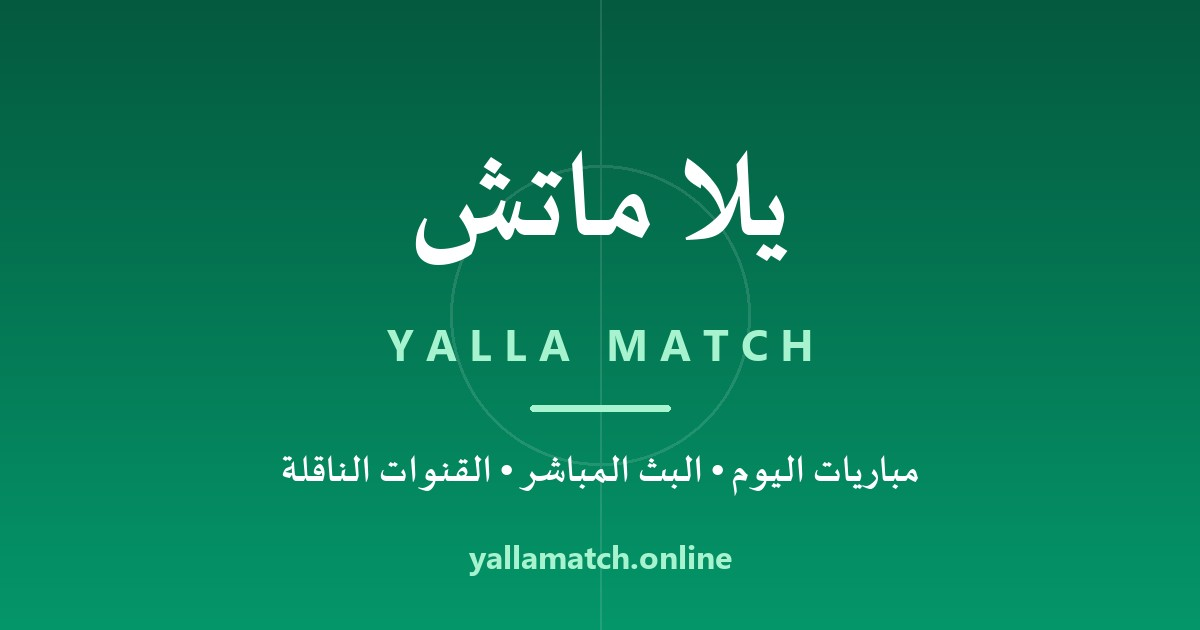
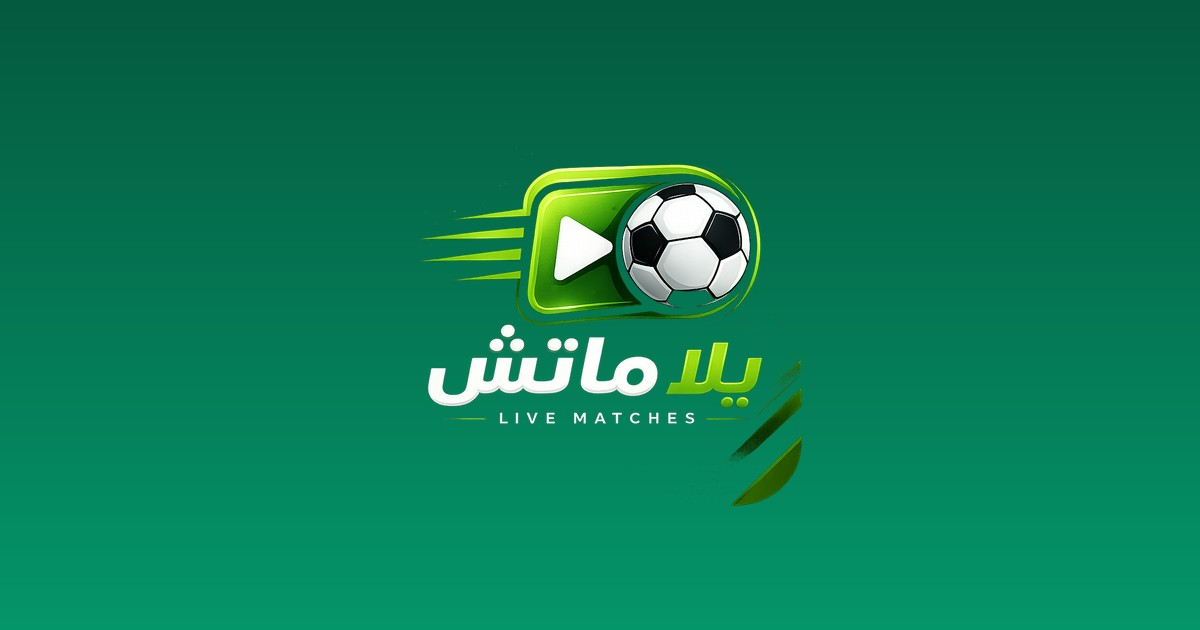
Use the real brand assets; drop the fullscreen redirect
## Fullscreen: removed the clever part

The embeds already permit native fullscreen (allowFullScreen + allow="fullscreen"),
and that delegation was verified working on the live site — iframe.featurePolicy
reports fullscreen allowed for the stream origin, with and without the sandbox.
Permission was never the blocker.

The blocker was the redirect added alongside it. It watched for the iframe making
itself the fullscreen element and immediately swapped fullscreen onto the wrapper
so the overlays would come along. Swapping the fullscreen element out from under
the embed makes the embedded player observe "fullscreen ended" through its own
fullscreenchange listener, and players routinely react by resetting or exiting —
so the viewer was bounced straight back out, which is exactly the reported
symptom of nothing happening.

It is gone. Native fullscreen now runs untouched. Viewers get two routes:

  * the player's own button  -> the iframe goes fullscreen. Overlays sit outside
    it and are not visible for the duration — the ordinary tradeoff every site
    embedding a third-party player makes.
  * PlayerControls' button   -> the WRAPPER goes fullscreen, overlays included.

A plain native fullscreen that works beats a branded one that does not. This was
speculative and unverifiable in this environment, and should not have shipped
ahead of a real device test.

## Brand assets

scripts/gen-brand-assets.py builds the whole set from the two supplied originals,
[…]

Changed region(s): [[0.2158, 0.2413, 0.7708, 0.8143], [0.37, 0.8746, 0.6167, 0.9048]]

diff --git a/utils/useWrapperFullscreen.ts b/utils/useWrapperFullscreen.ts
@@ -7,55 +7,32 @@ import { useCallback, useEffect, useRef, useState } from 'react';
 // as long as fullscreen lasts. Pointing fullscreen at the wrapper that holds the video
 // AND the overlays keeps them on screen together.
 //
-// The embed's OWN fullscreen button used to be disabled outright to force everyone
-// through this route. That made the button inside third-party players do nothing at all,
-// which reads as a broken site. Instead the embeds now permit fullscreen, and this hook
-// redirects it: when a descendant (the embed's iframe) makes itself the fullscreen
-// element, fullscreen is re-pointed at the wrapper so the overlays come along.
+// The embeds ALSO permit native fullscreen (allowFullScreen + allow="fullscreen"), so a
+// viewer has two routes:
 //
-// The redirect is best-effort and deliberately cannot make things worse: it swaps the
-// fullscreen element in place rather than exiting and re-entering. If the browser
-// refuses the swap, the embed simply stays fullscreen on its own — the viewer still gets
-// fullscreen, just without the overlays. That is strictly better than a button that does
-// nothing, which is what blocking fullscreen produced.
+//   * the player's own fullscreen button  -> the iframe goes fullscreen natively. Our
+//     overlays sit outside the iframe, so they are not visible for its duration. That is
+//     the ordinary tradeoff every site embedding a third-party player makes.
+//   * this hook's button (PlayerControls) -> the WRAPPER goes fullscreen, keeping the
+//     video and the overlays together.
+//
+// An earlier version tried to have both: it watched for the iframe making itself the
+// fullscreen element and swapped fullscreen onto the wrapper. That was removed. Swapping
+// the fullscreen element out from under the embed makes the embedded player observe
+// "fullscreen ended" through its own fullscreenchange listener, and players routinely
+// react by resetting or exiting — so the viewer was bounced straight back out and
+// fullscreen appeared to do nothing at all. A plain native fullscreen that works beats a
+// branded one that does not.
+
 export function useWrapperFullscreen<T extends HTMLElement = HTMLDivElement>() {
     const ref = useRef<T>(null);
     const [isFullscreen, setIsFullscreen] = useState(false);
-
-    // True while an exit->re-request round trip is in flight, so the intermediate
-    // fullscreenchange events it fires are not mistaken for the user leaving fullscreen.
-    const redirecting = useRef(false);
 
     useEffect(() => {
         // Safari fires the webkit-prefixed event only, so listen for both.
         const onChange = () => {
             const fsEl = document.fullscreenElement || (document as any).webkitFullscreenElement;
-            const wrap = ref.current;
-
-            if (redirecting.current) {
-                if (fsEl === wrap) redirecting.current = false; // landed on the wrapper
-                setIsFullscreen(fsEl === wrap);
-                return;
-            }
-
-            // A descendant went fullscreen by itself — the embed's own control. That
-            // element holds the video but none of our overlays, so hand fullscreen to
-            // the wrapper instead.
-            if (fsEl && wrap && fsEl !== wrap && wrap.contains(fsEl)) {
-                // Request straight on the wrapper — do NOT exit first. Requesting
-                // fullscreen for a different element while already fullscreen swaps the
-                // fullscreen element in place. Exiting first would spend the user
-                // activation, and if the follow-up request were then refused the viewer
-                // would be thrown OUT of fullscreen entirely — reproducing the very bug
-                // this fixes. Failing a swap merely leaves the embed fullscreen.
-                redirecting.current = true;
-                const request = (wrap as any).requestFullscreen || (wrap as any).webkitRequestFullscreen;
-                Promise.resolve(request?.call(wrap))
-                    .catch(() => { redirecting.current = false; });
-                return;
-            }
-
-            setIsFullscreen(fsEl === wrap);
+            setIsFullscreen(fsEl === ref.current);
         };
         document.addEventListener('fullscreenchange', onChange);
         document.addEventListener('webkitfullscreenchange', onChange);

diff --git a/index.html b/index.html
@@ -57,7 +57,7 @@
           "name": "Yalla Match",
           "alternateName": ["يلا ماتش", "يلاماتش", "Yallamatch"],
           "url": "https://yallamatch.online/",
-          "logo": "https://cdn-icons-png.flaticon.com/128/53/53283.png",
+          "logo": "https://yallamatch.online/logo.png",
           "sameAs": [
             "https://www.facebook.com/profile.php?id=61591953794737",
             "https://www.instagram.com/yallamatch.online/",
@@ -68,7 +68,12 @@
     }
     </script>
 
-    <link rel="icon" href="https://cdn-icons-png.flaticon.com/128/53/53283.png" type="image/png" />
+    <!-- Own brand assets, generated by scripts/gen-brand-assets.py from public/brand/.
+         These replace hotlinked icons from a third-party CDN nobody here controls,
+         which were also serving as the site's Organization.logo. -->
+    <link rel="icon" href="/favicon.ico" sizes="any" />
+    <link rel="icon" type="image/png" sizes="32x32" href="/favicon-32.png" />
+    <link rel="apple-touch-icon" href="/apple-touch-icon.png" />
     
     <!-- Performance Optimizations: Preconnect to important origins -->
     <link rel="preconnect" href="https://fonts.googleapis.com">

diff --git a/scripts/gen-brand-assets.py b/scripts/gen-brand-assets.py
@@ -1,0 +1,115 @@
+"""Generate every brand asset the site serves, from the two source images.
+
+Sources (committed, the originals supplied by the site owner). They live in brand/
+rather than public/ deliberately: Vite copies public/ verbatim into dist, and the
+1.5 MB source logo has no business being shipped to every visitor.
+    brand/logo.png      1024x1024 RGBA  — the full يلا ماتش mark + wordmark
+    brand/favicon.png    128x128  RGBA  — the football glyph used as the tab icon
+
+Outputs (all written into public/, so Vite copies them to the site root):
+    favicon.ico            16 + 32 + 48 multi-resolution, for the browser tab
+    favicon-32.png         explicit PNG for browsers that prefer it
+    apple-touch-icon.png   180x180, iOS home screen
+    icon-192.png           PWA manifest
+    icon-512.png           PWA manifest
+    logo.png               the 1024 logo, referenced by Organization.logo in JSON-LD
+    og-image.jpg           1200x630 social card, logo on the brand gradient
+
+This replaces a set of hotlinks to cdn-icons-png.flaticon.com — a generic football
+icon on a third-party CDN that nobody here controls — and the earlier typographic
+placeholder card.
+
+Usage, from the repo root:
+
+    python scripts/gen-brand-assets.py
+
+Requires: pip install Pillow
+"""
+from __future__ import annotations
+
+import os
+
+from PIL import Image
+
+SRC_DIR = "brand"
+OUT = "public"
+
+# Brand emerald, from <meta name="theme-color" content="#059669"> in index.html.
+EMERALD_DARK = (4, 90, 63)
+EMERALD = (5, 150, 105)
+
+
+def load(name: str) -> Image.Image:
+    path = os.path.join(SRC_DIR, name)
+    if not os.path.exists(path):
+        raise SystemExit(f"missing source image: {path}")
+    return Image.open(path).convert("RGBA")
+
+
+def trimmed(img: Image.Image) -> Image.Image:
+    """Crop away fully transparent margins so the mark fills the icon box."""
+    box = img.getbbox()
+    return img.crop(box) if box else img
+
+
+def square(img: Image.Image, size: int, pad_ratio: float = 0.06) -> Image.Image:
+    """Fit `img` into a transparent square of `size`, keeping aspect ratio."""
+    art = trimmed(img)
+    inner = int(size * (1 - pad_ratio * 2))
+    art.thumbnail((inner, inner), Image.LANCZOS)
+    canvas = Image.new("RGBA", (size, size), (0, 0, 0, 0))
+    canvas.paste(art, ((size - art.width) // 2, (size - art.height) // 2), art)
+    return canvas
+
+
+def og_card(logo: Image.Image) -> Image.Image:
+    """1200x630 social card: the real logo on the brand gradient."""
+    W, H = 1200, 630
+    card = Image.new("RGB", (W, H))
+    px = card.load()
+    for y in range(H):
+        t = y / H
+        row = tuple(int(a + (b - a) * t) for a, b in zip(EMERALD_DARK, EMERALD))
+        for x in range(W):
+            px[x, y] = row
+
+    art = trimmed(logo)
+    art.thumbnail((int(W * 0.62), int(H * 0.78)), Image.LANCZOS)
+    card.paste(art, ((W - art.width) // 2, (H - art.height) // 2), art)
+    return card
+
+
+def main() -> None:
+    logo = load("logo.png")
+    fav = load("favicon.png")
+
+    os.makedirs(OUT, exist_ok=True)
+    written: list[tuple[str, str]] = []
+
+    def save(img: Image.Image, name: str, **kw) -> None:
+        path = os.path.join(OUT, name)
+        img.save(path, **kw)
+        written.append((name, f"{os.path.getsize(path) // 1024 or 1} KB"))
+
+    # Tab icon — .ico carries 16/32/48 so every browser picks a crisp size.
+    ico = square(fav, 256, pad_ratio=0.02)
+    save(ico, "favicon.ico", format="ICO", sizes=[(16, 16), (32, 32), (48, 48)])
+    save(square(fav, 32, pad_ratio=0.02), "favicon-32.png", format="PNG")
+
+    # Home-screen and PWA icons use the full logo.
+    save(square(logo, 180), "apple-touch-icon.png", format="PNG")
+    save(square(logo, 192), "icon-192.png", format="PNG")
+    save(square(logo, 512), "icon-512.png", format="PNG")
+
+    # Organization.logo in the JSON-LD points at this.
+    save(square(logo, 512, pad_ratio=0.0), "logo.png", format="PNG")
+
+    save(og_card(logo), "og-image.jpg", format="JPEG", quality=90, optimize=True)
+
+    width = max(len(n) for n, _ in written)
+    for name, size in written:
+        print(f"  {name.ljust(width)}  {size}")
+
+
+if __name__ == "__main__":
+    main()
